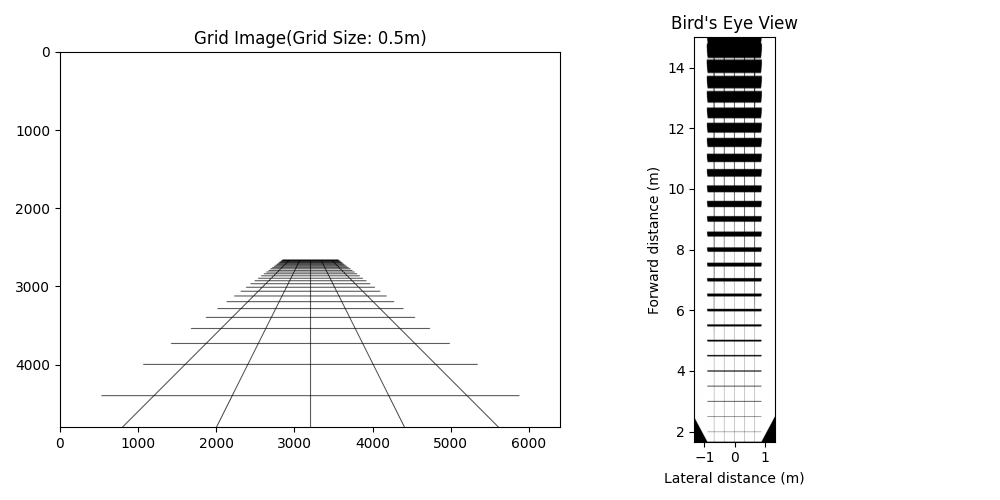
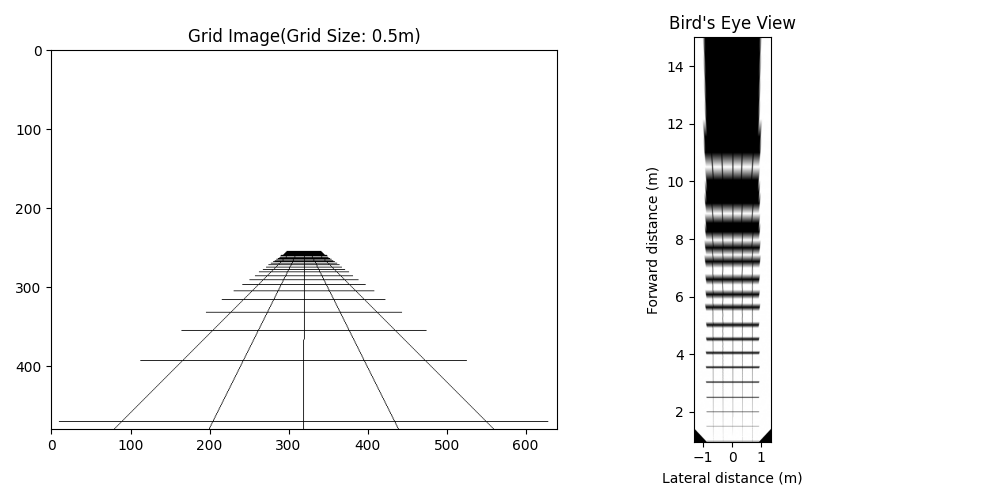
add: new data

diff --git a/BirdEyeView/lane_detection.py b/BirdEyeView/lane_detection.py
@@ -5,7 +5,7 @@ import calibration
 import bird_eye_view
 
 if __name__ == "__main__":
-    image_path = "./um_000012.png"
+    image_path = "./um_000001.png"
     image = cv2.imread(image_path)
     image = cv2.cvtColor(image, cv2.COLOR_BGR2RGB)
     image_shape = (image.shape[1], image.shape[0])
@@ -31,24 +31,7 @@ if __name__ == "__main__":
 
     edge = cv2.Canny(blur, 50, 150)
 
-    lines = cv2.HoughLinesP(
-        edge,
-        rho=1,
-        theta=np.pi/180,
-        threshold=50,
-        minLineLength=50,
-        maxLineGap=10
-    )
-
-    line_image = np.zeros_like(bev_image)
-    if lines is not None:
-        for line in lines:
-            x1, y1, x2, y2 = line[0]
-            cv2.line(line_image, (x1, y1), (x2, y2), (0, 255, 0), 2)
-    
-    result = cv2.addWeighted(bev_image, 0.8, line_image, 1, 0)
-
-    cv2.imshow("lines", result)
+    cv2.imshow("lines", bev_image)
 
     cv2.waitKey()
     cv2.destroyAllWindows()
